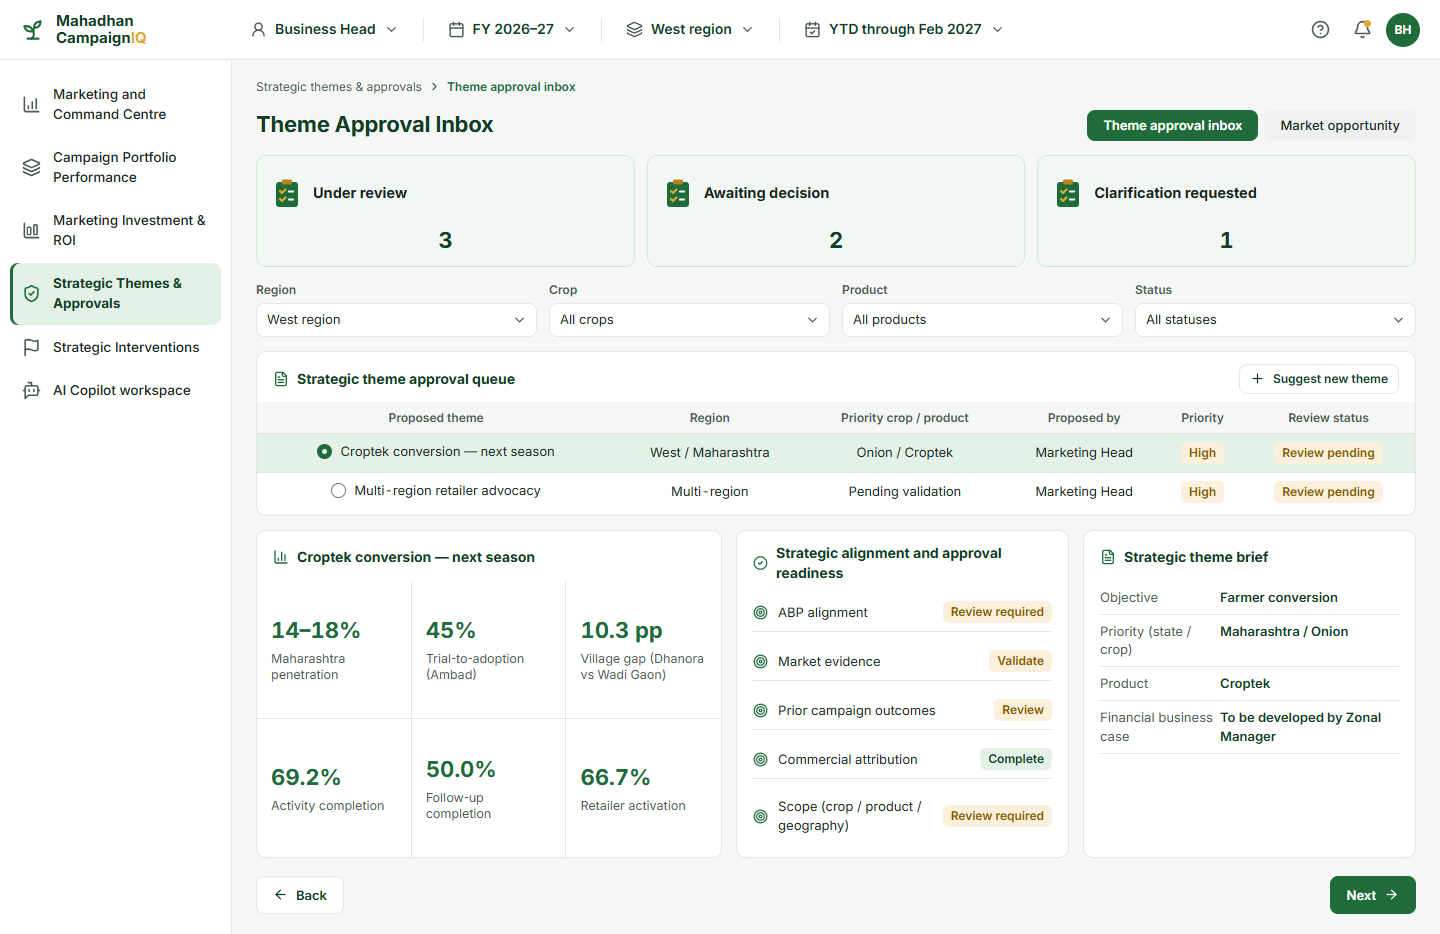
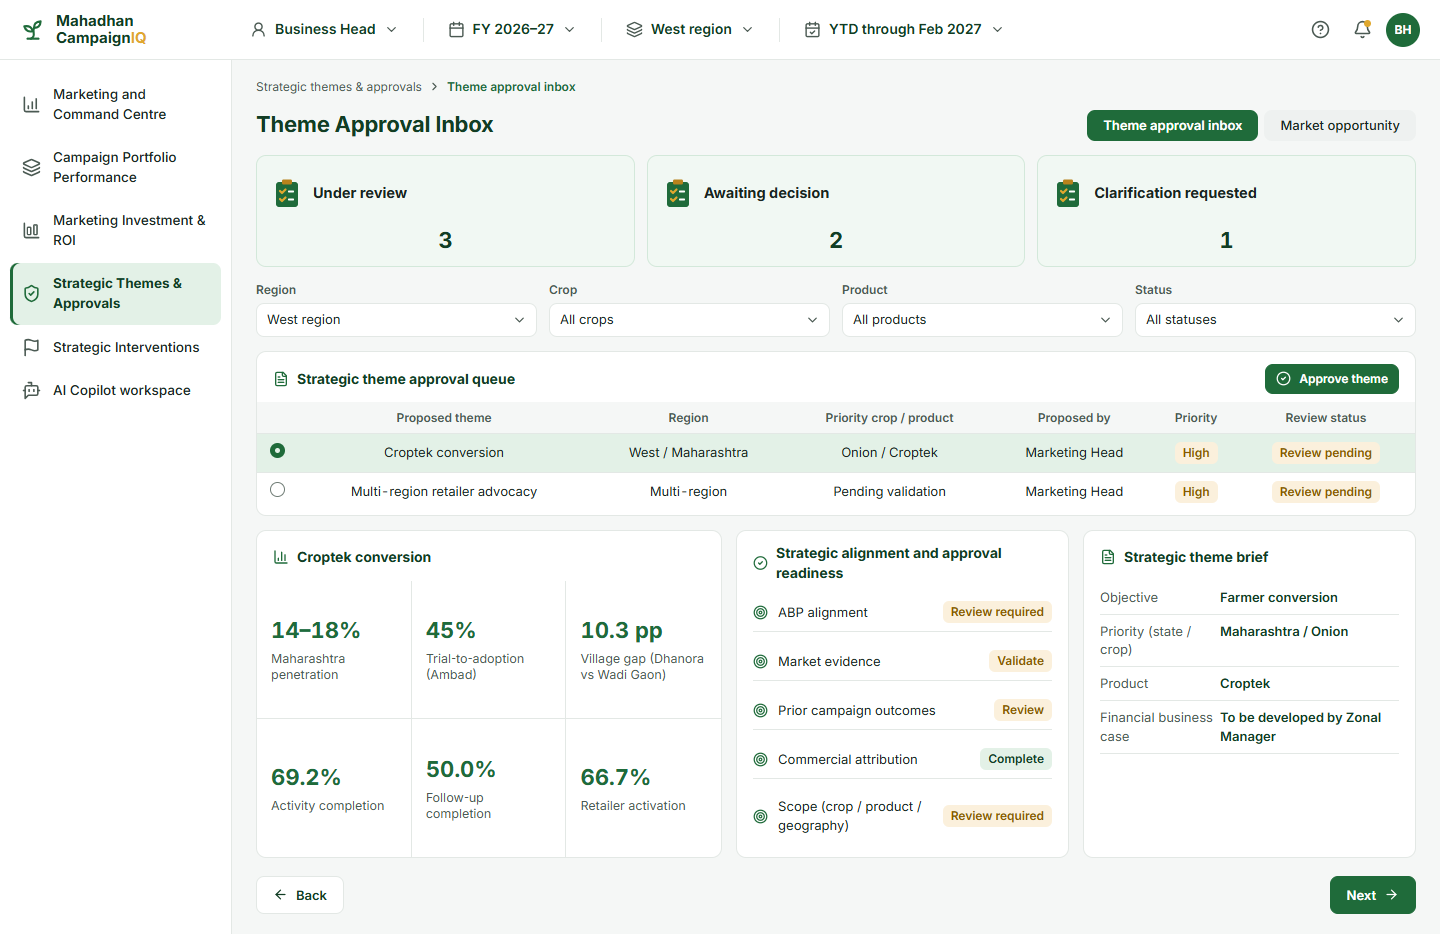
BH: queue radios aligned, approve theme, remove next season

diff --git a/campaigniq-v3/src/screens/Themes.tsx b/campaigniq-v3/src/screens/Themes.tsx
@@ -2,7 +2,7 @@
  * Screens 11–16 — Market Opportunity (BH.4.png), Theme Approval Inbox (BH.4b.png), Theme Detailed Review (BH.4c.png),
  * Theme Decision modal (BH.4d.png), Suggest Strategic Theme (BH.4e.png), Recommendation Review & Submit drawer (BH.4f.png).
  */
-import { Box, ChartColumn, CircleCheck, Eye, FileSearch, FileText, Layers, Link2, MapPin, Plus, Save, Send, Sprout, Store, Target, Users } from 'lucide-react';
+import { Box, ChartColumn, CircleCheck, Eye, FileSearch, FileText, Layers, Link2, MapPin, CheckCircle2, Save, Send, Sprout, Store, Target, Users } from 'lucide-react';
 import { useMemo, useState } from 'react';
 import { useNavigate, useParams, useSearchParams } from 'react-router-dom';
 import {
@@ -108,7 +108,7 @@ export function MarketOpportunity() {
             ))}
           </div>
         </Card>
-        <Card title="Potential theme candidates" note="next season / revised themes" icon={Layers} flush>
+        <Card title="Potential theme candidates" note="revised themes" icon={Layers} flush>
           <DataTable rows={themeCandidates()} rowKey={(c) => c.id}
             columns={[
               { key: 't', header: 'Theme', render: (c) => c.name },
@@ -154,11 +154,12 @@ export function ThemeInbox() {
         { key: 'product', label: 'Product', value: product, options: PRODUCT_OPTIONS, onChange: setProduct },
         { key: 'status', label: 'Status', value: status, options: [opt(ALL, 'All statuses'), ...Object.entries(THEME_STATUS).map(([k, v]) => opt(k, v.bh === '—' ? v.mh : v.bh))], onChange: setStatus },
       ]} />
-      <Card title="Strategic theme approval queue" icon={FileText} flush right={<Button small icon={Plus} onClick={() => go(R.suggest)}>Suggest new theme</Button>}>
+      <Card title="Strategic theme approval queue" icon={FileText} flush right={<Button small primary icon={CheckCircle2} onClick={sel && store.themeStatus[sel.id] !== 'clarification_requested' ? () => go(`${R.decision(sel.id)}&choice=approve`) : undefined}>Approve theme</Button>}>
         {queue.length ? (
           <DataTable rows={queue} rowKey={(t) => t.id} selected={sel?.id} onRowClick={(t) => setSelId(t.id)}
             columns={[
-              { key: 'n', header: 'Proposed theme', render: (t) => <span className="row"><span className={`radio${t.id === sel?.id ? ' on' : ''}`} />{t.name}</span> },
+              { key: 'r', header: '', width: 40, render: (t) => <span className={`radio${t.id === sel?.id ? ' on' : ''}`} /> },
+              { key: 'n', header: 'Proposed theme', render: (t) => t.name },
               { key: 'g', header: 'Region', render: (t) => t.geography },
               { key: 'c', header: 'Priority crop / product', render: (t) => t.cropProduct },
               { key: 'p', header: 'Proposed by', render: (t) => t.proposedBy },
@@ -262,7 +263,7 @@ export function ThemeReview() {
         </div>
       </div>
       <FooterBar onBack={() => go(R.inbox)} onNext={() => go(R.suggest)} />
-      {params.get('modal') === 'decision' && <DecisionModal t={t} onClose={() => setParams({})} onShowOriginal={() => showEvidence(`Original proposal — ${t.name}`, [
+      {params.get('modal') === 'decision' && <DecisionModal t={t} initialChoice={params.get('choice') as ThemeDecision['choice'] | null} onClose={() => setParams({})} onShowOriginal={() => showEvidence(`Original proposal — ${t.name}`, [
         { label: 'Proposed by', value: t.proposedBy }, { label: 'Geography', value: t.geography }, { label: 'Crop / product', value: t.cropProduct },
         { label: 'Objective', value: t.objective }, { label: 'Target cohort', value: t.cohort }, { label: 'Priority', value: t.priority },
       ])} />}
@@ -278,11 +279,11 @@ const CHOICES: { id: ThemeDecision['choice']; label: string; action: string; toa
   { id: 'reject', label: 'Reject theme', action: 'Reject theme', toast: 'Theme rejected' },
 ];
 
-function DecisionModal({ t, onClose, onShowOriginal }: { t: ThemeProposal; onClose: () => void; onShowOriginal: () => void }) {
+function DecisionModal({ t, onClose, onShowOriginal, initialChoice }: { t: ThemeProposal; onClose: () => void; onShowOriginal: () => void; initialChoice?: ThemeDecision['choice'] | null }) {
   const store = useBhStore();
   const nav = useNavigate();
   const draft = store.decisions.find((d) => d.themeId === t.id && d.draft);
-  const [choice, setChoice] = useState<ThemeDecision['choice']>(draft?.choice ?? 'return');
+  const [choice, setChoice] = useState<ThemeDecision['choice']>(initialChoice ?? draft?.choice ?? 'return');
   const [comment, setComment] = useState(draft?.comment ?? '');
   const c = CHOICES.find((x) => x.id === choice)!;
   const record = (isDraft: boolean) => store.decideTheme({ themeId: t.id, choice, comment, at: new Date().toISOString(), draft: isDraft });
@@ -295,7 +296,7 @@ function DecisionModal({ t, onClose, onShowOriginal }: { t: ThemeProposal; onClo
         <span className="row"><Layers size={18} color="var(--amber)" /><b className="strong">{t.name}</b></span>
         <span className="row"><MapPin size={16} color="var(--brand)" />{t.state} {t.cropProduct}</span>
         <span className="row"><Users size={16} color="var(--brand)" />Proposed by {t.proposedBy}</span>
-        <StatusChip tone="ok" icon={Sprout}>New next-season theme proposal</StatusChip>
+        <StatusChip tone="ok" icon={Sprout}>New theme proposal</StatusChip>
         <span style={{ marginLeft: 'auto' }} className="row"><Button small icon={Eye} onClick={onShowOriginal}>View original</Button><Button small icon={Save} onClick={() => { record(true); store.toast('Draft decision saved'); }}>Save draft</Button></span>
       </div>
       <div className="grid" style={{ gridTemplateColumns: 'minmax(0, 1.6fr) minmax(0, 1fr)' }}>

diff --git a/campaigniq-v3/src/data/bh.ts b/campaigniq-v3/src/data/bh.ts
@@ -315,7 +315,7 @@ export interface ThemeProposal {
 }
 
 export const THEME_QUEUE: ThemeProposal[] = [
-  { id: 'croptek-next', name: 'Croptek conversion — next season', geography: 'West / Maharashtra', state: 'Maharashtra', region: 'west', cropProduct: 'Onion / Croptek', crop: 'Onion', product: 'Croptek', proposedBy: 'Marketing Head', priority: 'High', status: 'review_pending', objective: 'Farmer conversion', cohort: 'Eligible non-adopters and trial users', focus: 'Conversion & adoption' },
+  { id: 'croptek-next', name: 'Croptek conversion', geography: 'West / Maharashtra', state: 'Maharashtra', region: 'west', cropProduct: 'Onion / Croptek', crop: 'Onion', product: 'Croptek', proposedBy: 'Marketing Head', priority: 'High', status: 'review_pending', objective: 'Farmer conversion', cohort: 'Eligible non-adopters and trial users', focus: 'Conversion & adoption' },
   { id: 'retailer-advocacy', name: 'Multi-region retailer advocacy', geography: 'Multi-region', state: 'Multi-region', region: 'multi', cropProduct: 'Pending validation', crop: null, product: null, proposedBy: 'Marketing Head', priority: 'High', status: 'review_pending', objective: 'Retailer advocacy', cohort: 'Priority retailers', focus: 'Retailer enablement' },
   { id: 'north-awareness', name: 'North region crop nutrition awareness', geography: 'North', state: 'North region', region: 'north', cropProduct: 'Pending', crop: null, product: null, proposedBy: 'Marketing Head', priority: 'Medium', status: 'clarification_requested', objective: 'Crop nutrition awareness', cohort: 'Pending', focus: 'Crop nutrition awareness' },
 ];
